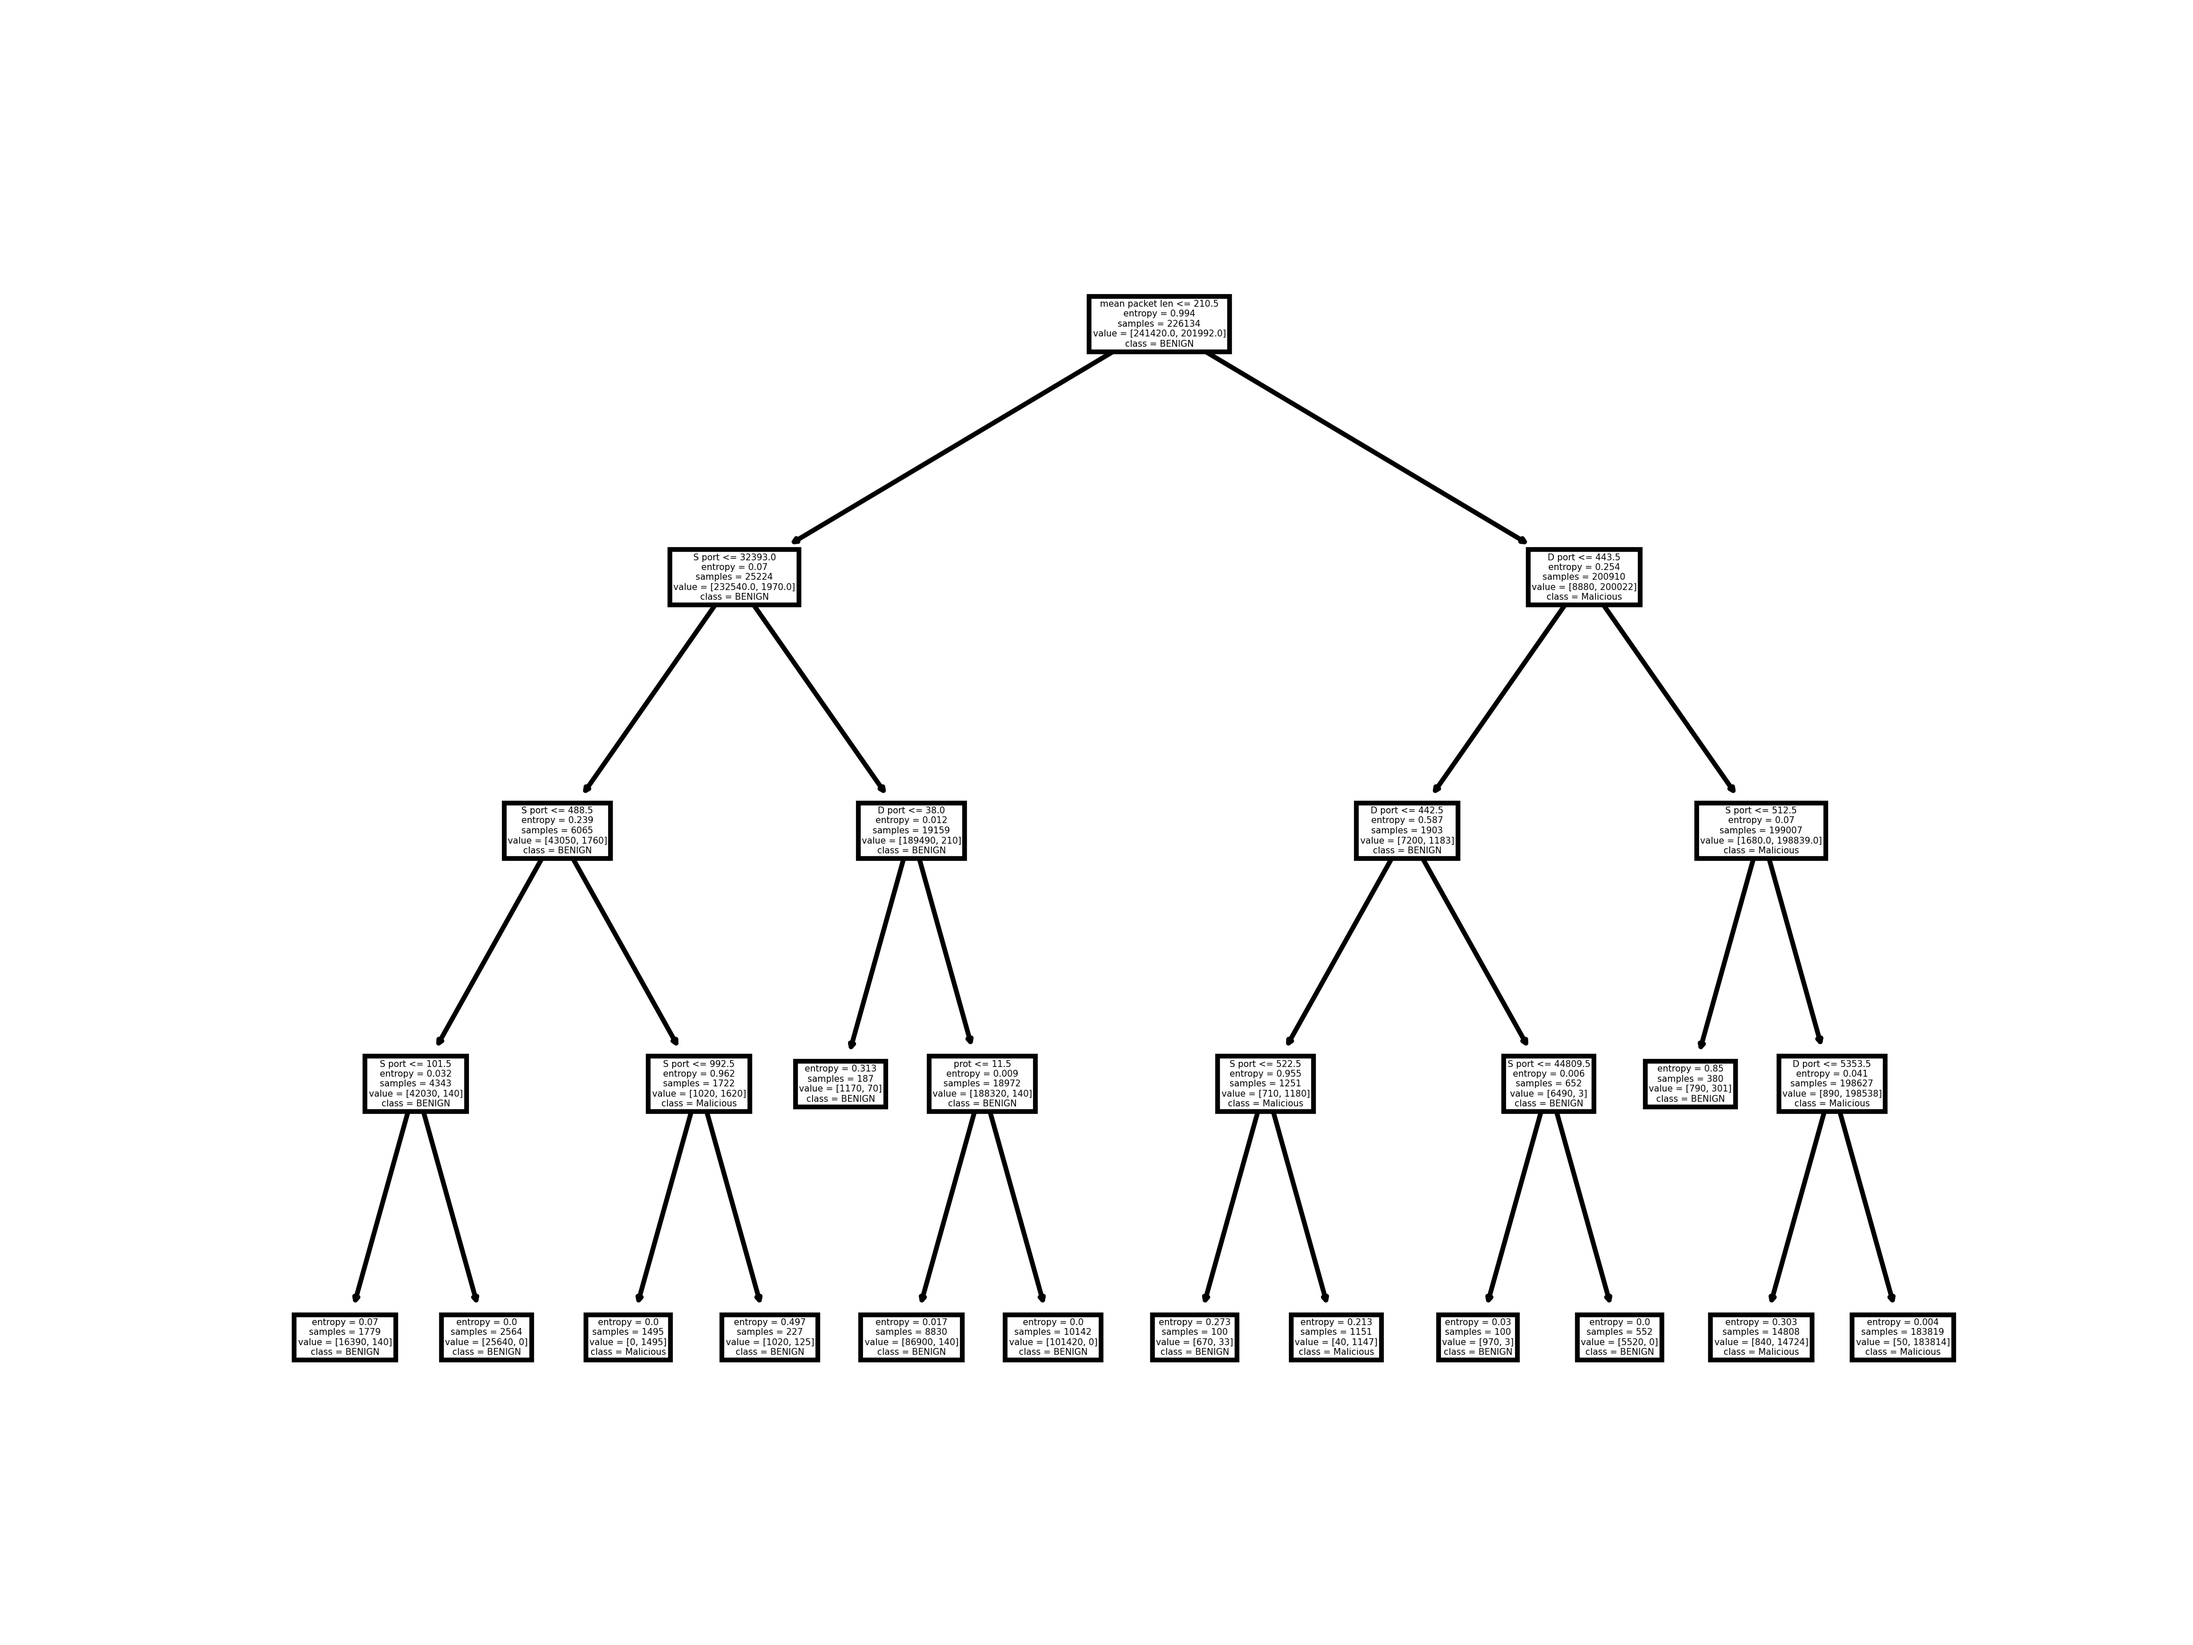
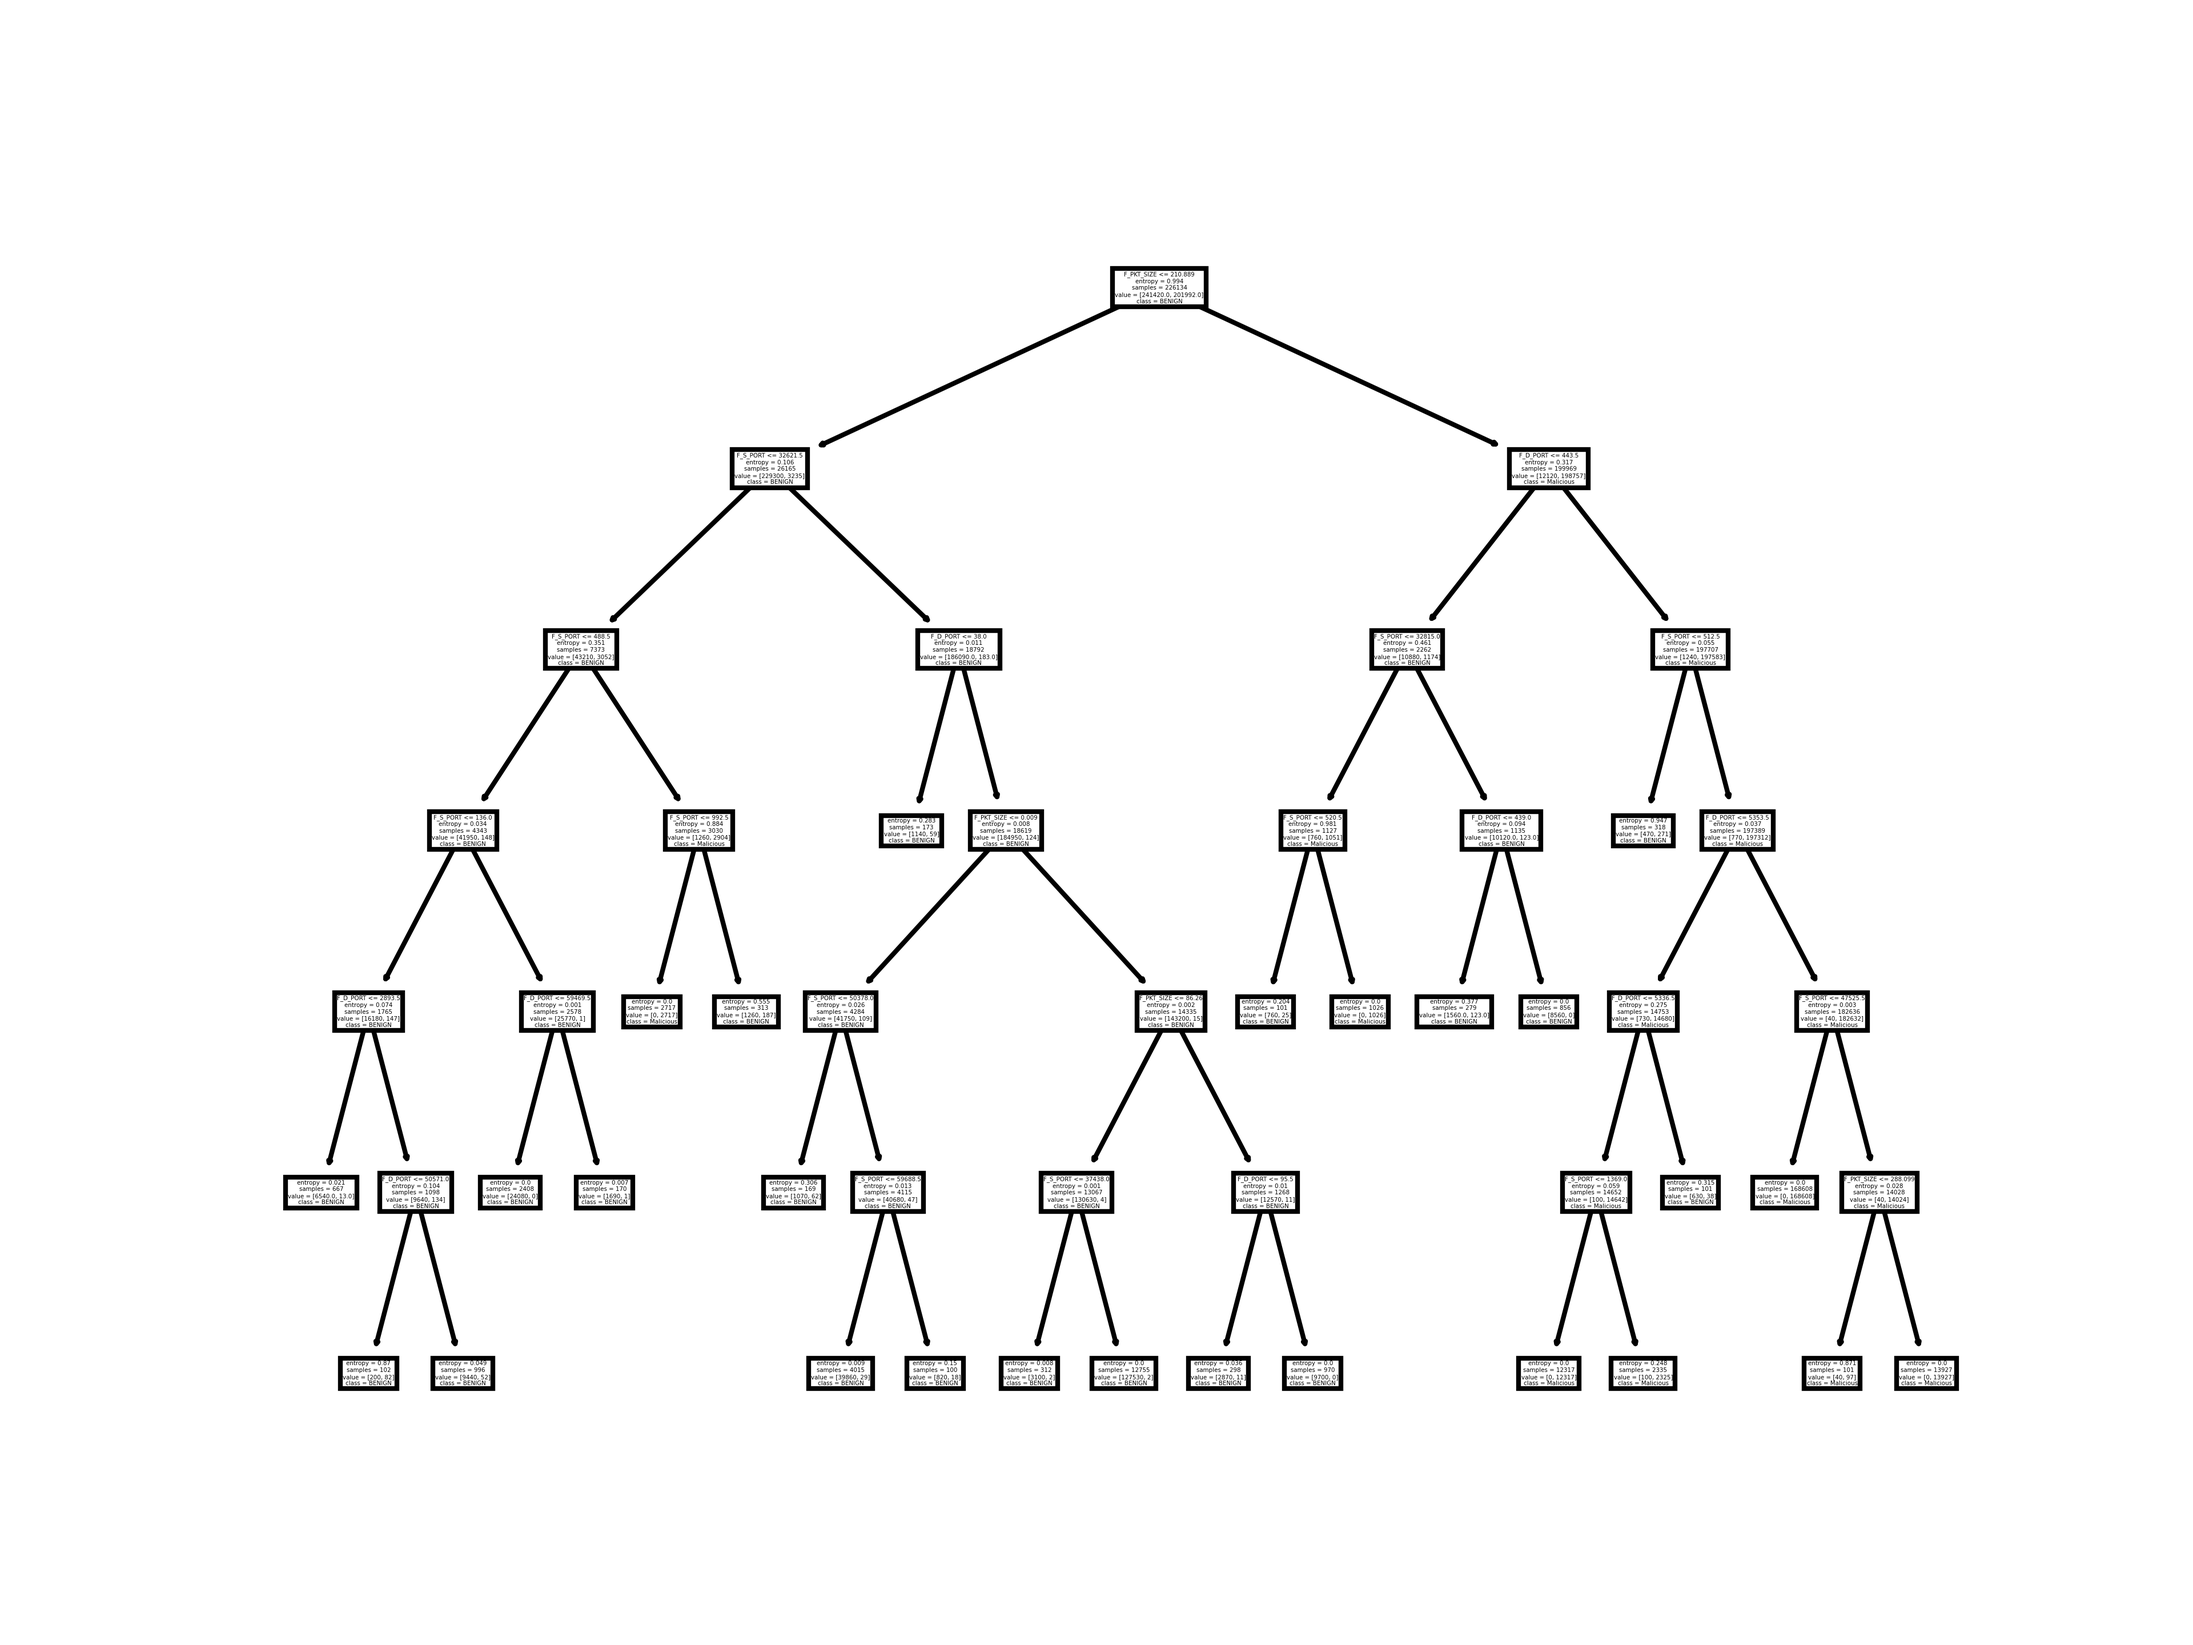
generated a enw DT (not perfect at all - not the goal now)

diff --git a/ML/DT/dt_params.h b/ML/DT/dt_params.h
@@ -1,22 +1,80 @@
 // Auto-generated by main.py.
 // Include this file in dt_xdp.usr.c to load the decision tree.
 
-//#define DT_NODE_NB 15
+//#define DT_NODE_NB 63
 
 static struct dt_node trained_dt_nodes[] = {
-    { .feature = 0b10100010, .threshold = 16 }, //protocol feature : 3rd feature in the vector so index 2
-    { .feature = 0x00, .threshold = 0},            //placeholder node.
-    { .feature = 0b01100010, .threshold = 17 } 
+    { .feature = 0xA3, .threshold = 210 },  // [0] feat_id=3 thresh=210 pass_left=1 pass_right = 1
+    { .feature = 0xE0, .threshold = 32621 },  // [1] feat_id=0 thresh=32621 pass_left=0 pass_right = 0
+    { .feature = 0xA1, .threshold = 443 },  // [2] feat_id=1 thresh=443 pass_left=1 pass_right = 1
+    { .feature = 0xA0, .threshold = 488 },  // [3] feat_id=0 thresh=488 pass_left=0 pass_right = 0
+    { .feature = 0xE1, .threshold = 38 },  // [4] feat_id=1 thresh=38 pass_left=1 pass_right = 1
+    { .feature = 0x60, .threshold = 32814 },  // [5] feat_id=0 thresh=32814 pass_left=0 pass_right = 0
+    { .feature = 0xA0, .threshold = 512 },  // [6] feat_id=0 thresh=512 pass_left=0 pass_right = 0
+    { .feature = 0xE0, .threshold = 136 },  // [7] feat_id=0 thresh=136 pass_left=0 pass_right = 0
+    { .feature = 0x60, .threshold = 992 },  // [8] feat_id=0 thresh=992 pass_left=0 pass_right = 0
+    { .feature = 0x00, .threshold = 0 },  // [9] leaf / undef
+    { .feature = 0xE3, .threshold = 0 },  // [10] feat_id=3 thresh=0 pass_left=1 pass_right = 1
+    { .feature = 0xA0, .threshold = 520 },  // [11] feat_id=0 thresh=520 pass_left=0 pass_right = 0
+    { .feature = 0xE1, .threshold = 438 },  // [12] feat_id=1 thresh=438 pass_left=1 pass_right = 1
+    { .feature = 0x00, .threshold = 0 },  // [13] leaf / undef
+    { .feature = 0x21, .threshold = 5353 },  // [14] feat_id=1 thresh=5353 pass_left=1 pass_right = 1
+    { .feature = 0xE1, .threshold = 2893 },  // [15] feat_id=1 thresh=2893 pass_left=1 pass_right = 1
+    { .feature = 0xE1, .threshold = 59469 },  // [16] feat_id=1 thresh=59469 pass_left=1 pass_right = 1
+    { .feature = 0x00, .threshold = 0 },  // [17] leaf / undef
+    { .feature = 0x00, .threshold = 0 },  // [18] leaf / undef
+    { .feature = 0x00, .threshold = 0 },  // [19] leaf / undef
+    { .feature = 0x00, .threshold = 0 },  // [20] leaf / undef
+    { .feature = 0xE0, .threshold = 50378 },  // [21] feat_id=0 thresh=50378 pass_left=0 pass_right = 0
+    { .feature = 0xE3, .threshold = 86 },  // [22] feat_id=3 thresh=86 pass_left=1 pass_right = 1
+    { .feature = 0x00, .threshold = 0 },  // [23] leaf / undef
+    { .feature = 0x00, .threshold = 0 },  // [24] leaf / undef
+    { .feature = 0x00, .threshold = 0 },  // [25] leaf / undef
+    { .feature = 0x00, .threshold = 0 },  // [26] leaf / undef
+    { .feature = 0x00, .threshold = 0 },  // [27] leaf / undef
+    { .feature = 0x00, .threshold = 0 },  // [28] leaf / undef
+    { .feature = 0x61, .threshold = 5336 },  // [29] feat_id=1 thresh=5336 pass_left=1 pass_right = 1
+    { .feature = 0x20, .threshold = 47525 },  // [30] feat_id=0 thresh=47525 pass_left=0 pass_right = 0
+    { .feature = 0x00, .threshold = 0 },  // [31] leaf / undef
+    { .feature = 0xE1, .threshold = 50570 },  // [32] feat_id=1 thresh=50570 pass_left=1 pass_right = 1
+    { .feature = 0x00, .threshold = 0 },  // [33] leaf / undef
+    { .feature = 0x00, .threshold = 0 },  // [34] leaf / undef
+    { .feature = 0x00, .threshold = 0 },  // [35] leaf / undef
+    { .feature = 0x00, .threshold = 0 },  // [36] leaf / undef
+    { .feature = 0x00, .threshold = 0 },  // [37] leaf / undef
+    { .feature = 0x00, .threshold = 0 },  // [38] leaf / undef
+    { .feature = 0x00, .threshold = 0 },  // [39] leaf / undef
+    { .feature = 0x00, .threshold = 0 },  // [40] leaf / undef
+    { .feature = 0x00, .threshold = 0 },  // [41] leaf / undef
+    { .feature = 0x00, .threshold = 0 },  // [42] leaf / undef
+    { .feature = 0x00, .threshold = 0 },  // [43] leaf / undef
+    { .feature = 0xE0, .threshold = 59688 },  // [44] feat_id=0 thresh=59688 pass_left=0 pass_right = 0
+    { .feature = 0xE0, .threshold = 37438 },  // [45] feat_id=0 thresh=37438 pass_left=0 pass_right = 0
+    { .feature = 0xE1, .threshold = 95 },  // [46] feat_id=1 thresh=95 pass_left=1 pass_right = 1
+    { .feature = 0x00, .threshold = 0 },  // [47] leaf / undef
+    { .feature = 0x00, .threshold = 0 },  // [48] leaf / undef
+    { .feature = 0x00, .threshold = 0 },  // [49] leaf / undef
+    { .feature = 0x00, .threshold = 0 },  // [50] leaf / undef
+    { .feature = 0x00, .threshold = 0 },  // [51] leaf / undef
+    { .feature = 0x00, .threshold = 0 },  // [52] leaf / undef
+    { .feature = 0x00, .threshold = 0 },  // [53] leaf / undef
+    { .feature = 0x00, .threshold = 0 },  // [54] leaf / undef
+    { .feature = 0x00, .threshold = 0 },  // [55] leaf / undef
+    { .feature = 0x00, .threshold = 0 },  // [56] leaf / undef
+    { .feature = 0x00, .threshold = 0 },  // [57] leaf / undef
+    { .feature = 0x00, .threshold = 0 },  // [58] leaf / undef
+    { .feature = 0x20, .threshold = 1368 },  // [59] feat_id=0 thresh=1368 pass_left=0 pass_right = 0
+    { .feature = 0x00, .threshold = 0 },  // [60] leaf / undef
+    { .feature = 0x00, .threshold = 0 },  // [61] leaf / undef
+    { .feature = 0x23, .threshold = 288 },  // [62] feat_id=3 thresh=288 pass_left=1 pass_right = 1
 };
-    /*
-                root : feature = protocol, thresh = 16.
-                /                       \
-                <=16                      >16
-               /                           \
-            PASS              node 2: feature = protocol, thresh = 17
-                                    /               \
-                               ==17                  > 17
-                                /                       \
-                            DROP                        PASS
+/*
+              precision    recall  f1-score   support
 
-    */
+      BENIGN       0.96      1.00      0.98      6036
+   MALICIOUS       1.00      0.99      1.00     50498
+
+    accuracy                           1.00     56534
+   macro avg       0.98      1.00      0.99     56534
+weighted avg       1.00      1.00      1.00     56534
+*/

diff --git a/ML/DT/dt_features.h b/ML/DT/dt_features.h
@@ -1,6 +1,5 @@
-//Hand-generated for now, but will be auto-generated by main.py script that trains the DT and export to this file.
-#include "../include/project_features.h"
+// Auto-generated by main.py.
+// Include this file in dt_xdp.xdp.c to load the feature vector descriptor.
 
-//S port, D port, protocol, packet size
-#define FEATURES (F_S_PORT | F_D_PORT | F_PROTOCOL | F_PKT_SIZE)
 #define FEATURE_NB 4
+#define FEATURES (F_S_PORT|F_D_PORT|F_PROTOCOL|F_PKT_SIZE)
